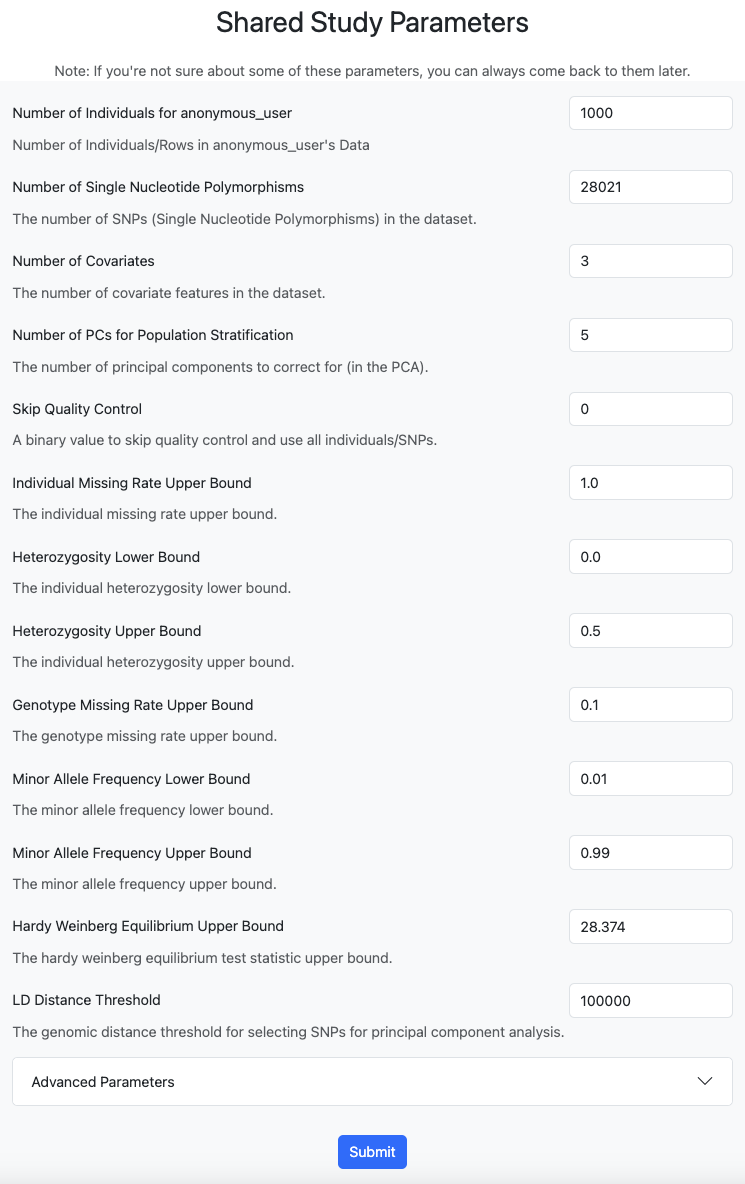
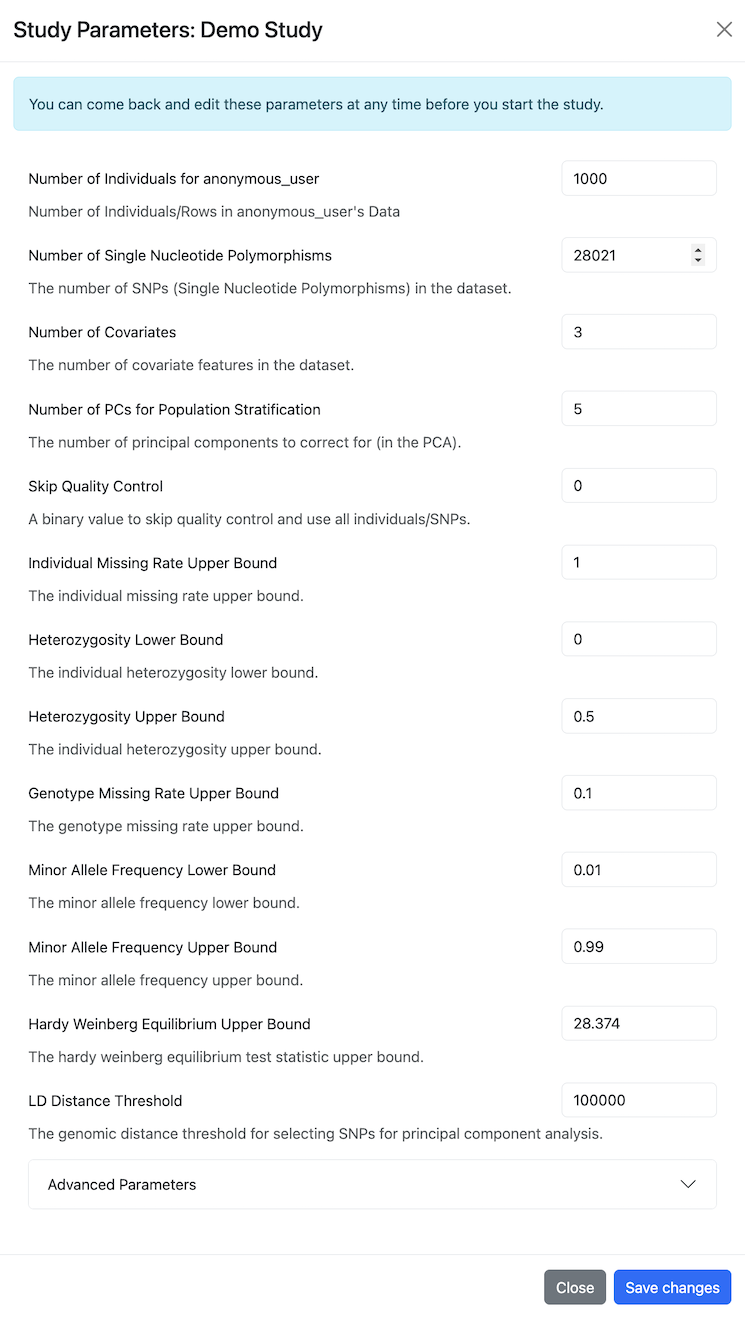
Update Study Parameters and Study page screenshots and instructions

diff --git a/src/components/tutorials/PrimaryTutorial.tsx b/src/components/tutorials/PrimaryTutorial.tsx
@@ -136,7 +136,7 @@ const PrimaryTutorial: React.FC = () => {
           of the parameters as they are. In a real study, you would set the parameters according to your data and
           preferences. Click{" "}
           <span className="btn btn-primary btn-sm" style={{ pointerEvents: "none" }}>
-            Submit
+            Save changes
           </span>{" "}
           to proceed.
         </p>
@@ -150,16 +150,49 @@ const PrimaryTutorial: React.FC = () => {
 
       <h4 className="my-4 fw-normal">Configuring your study</h4>
       <div className="row">
+        <p>You should now see a page that looks something like this:</p>
+      </div>
+
+      <div className="row my-2">
+        <div className="text-center">
+          <img className="img-fluid w-75 border border-secondary" src={study} alt="Image failed to load" />
+        </div>
+      </div>
+
+      <div>
         <p>
-          You should now see a page that looks something like this
-          <span className="text-muted">
-            (if you instead see the main study page, click the{" "}
-            <button className="btn btn-primary btn-sm" style={{ pointerEvents: "none" }}>
-              Configure Study
-            </button>{" "}
-            button to get to this page)
-          </span>
-          :
+          This is your main study page. Here you can see the status of your study, and you can download the results when
+          the study is complete. This is also where you can view or add study participants.
+          When all participants initiate their computational protocol, the joint study will begin. For
+          this demo, you are the only real participant.
+        </p>
+        <p>
+          You are now given a choice:
+          <ol>
+            <li>
+              to let <i>sfkit</i> portal automatically create a computing environment
+              { onTerra ? (<>, <i>optionally</i> upload your data to Terra, </>) : " "} and launch the computational protocol,
+              according to a few parameters you choose, OR
+            </li>
+            <li>
+              to launch it manually on your own machine
+              { onTerra ? ", either inside or outside of Terra" : ""},
+              following the instructions for <i>sfkit</i> command-line interface (CLI).
+            </li>
+          </ol>
+        </p>
+        <p>
+          Option 1 is easier, but gives you less flexibility. To go with it, please click the{" "}
+          <button className="btn btn-primary btn-sm" style={{ pointerEvents: "none" }}>
+            Configure Compute Environment
+          </button>{" "}
+          button.
+        </p>
+      </div>
+
+      <div className="row">
+        <p>
+          You should now see a page that looks something like this:
         </p>
       </div>
       <div className="row my-2">
@@ -247,33 +280,9 @@ const PrimaryTutorial: React.FC = () => {
       </div>
 
       <h4 className="my-4 fw-normal">Running your study</h4>
-      <div className="row">
-        <p>You should now see a page that looks something like this:</p>
-      </div>
-
-      <div className="row my-2">
-        <div className="text-center">
-          <img className="img-fluid w-50 border border-secondary" src={study} alt="Image failed to load" />
-        </div>
-      </div>
-
       <div>
         <p>
-          This is your main study page. Here you can see the status of your study, and you can download the results when
-          the study is complete. You can also click the{" "}
-          <button className="btn btn-primary btn-sm" style={{ pointerEvents: "none" }}>
-            Configure Study
-          </button>{" "}
-          button to go back to the configuration page. This is also where you can view the study participants and add
-          more participants to your study. When all participants initiate their study, the joint study will begin. For
-          this demo, you are the only real participant.
-        </p>
-        <p>
-          Click the{" "}
-          <span className="btn btn-success btn-sm" style={{ pointerEvents: "none" }}>
-            Begin MPC-GWAS Workflow
-          </span>{" "}
-          button to begin your study. The study should take about 1/2 hour to complete, and status updates will be
+          The study should take about 1/2 hour to complete, and status updates will be
           visible on this page. Feel free to leave this page and come back. When the study is complete, a link to
           download the results should appear.
         </p>
